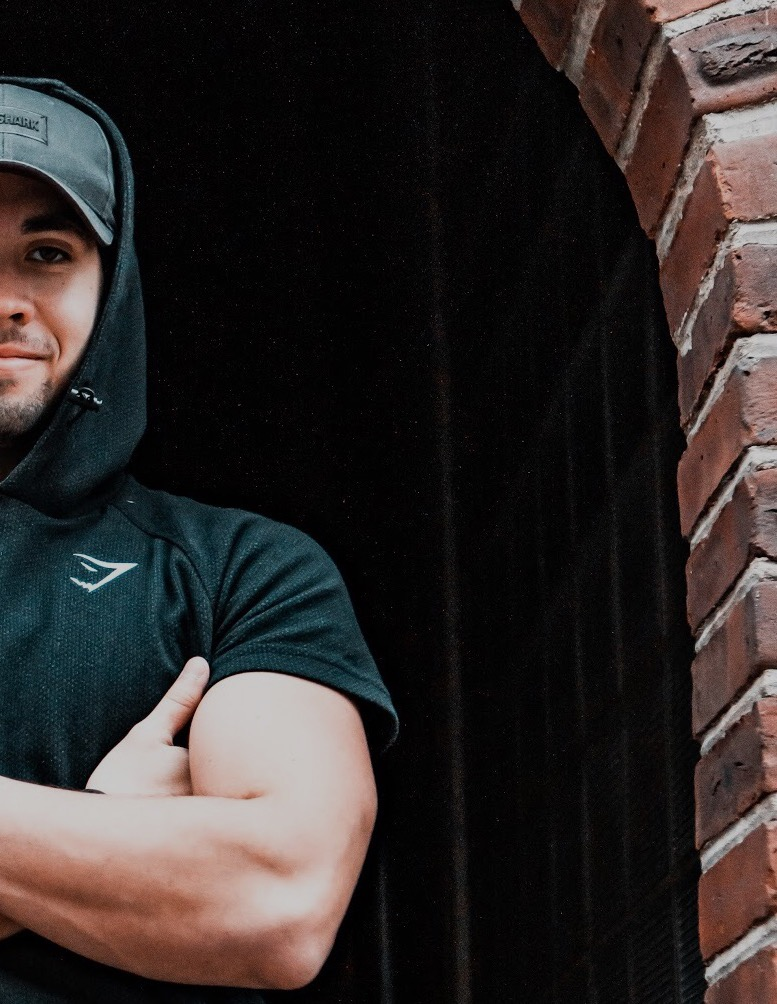
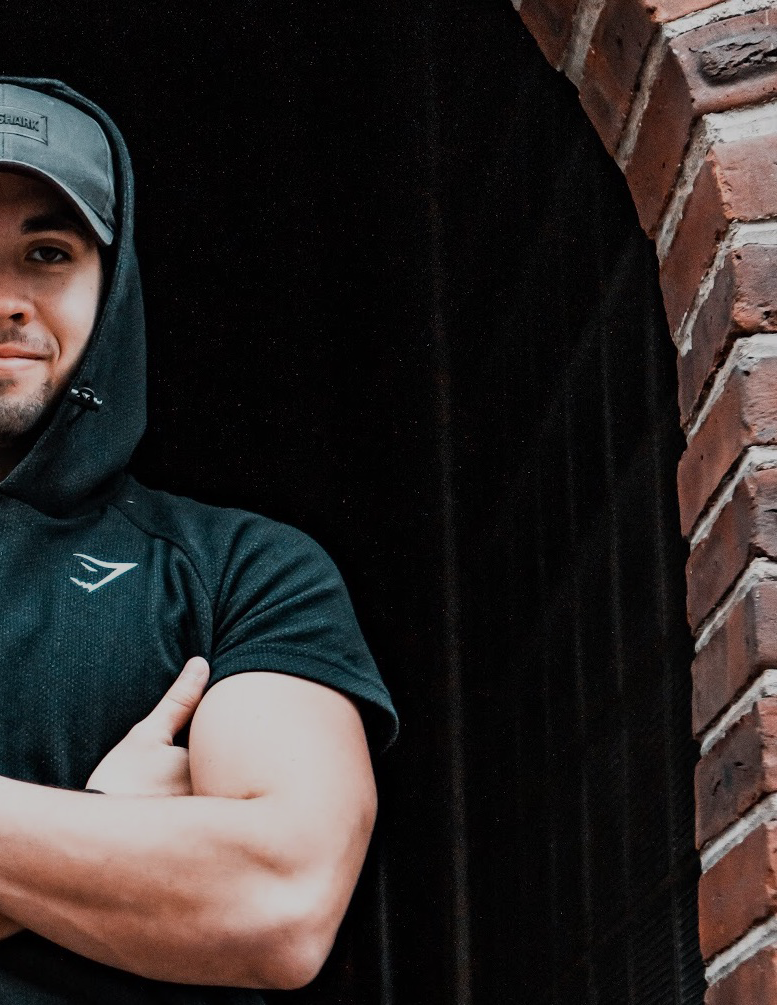
1.9 dynamic landing complete(right image height is off my 1px currently in debug process)

diff --git a/src/CSS/landing.css b/src/CSS/landing.css
@@ -7,7 +7,7 @@
 
 body {
   font-family: "Montserrat";
-  color: #fff;
+  color: black;
   width: 100%;
   height: 100vh;
   overflow-x: hidden;
@@ -19,7 +19,7 @@ ion-icon {
 
 /* NAVBAR =========================== */
 .navbar {
-  position: absolute;
+  position: sticky;
   width: 100vw;
   padding: 0 30px;
   z-index: 2;
@@ -47,8 +47,8 @@ ion-icon {
 /* CONTENT=========================== */
 
 .content {
-  width: 100%;
-  height: 100%;
+  width: 100vw;
+  height: 775px;
   background-color: black; /* <----- idky i cant see this if everything is within content */
 }
 
@@ -64,11 +64,11 @@ ion-icon {
 .split {
   animation: fadeIn 0.5s ease-in-out forwards;
   top: 0;
-  height: fit-content;
-  max-height: 100vh;
+  max-height: 90vh;
   position: absolute;
   transition: 1s all cubic-bezier(0.87, 0.76, 0.33, 0.98);
   overflow: hidden;
+  background-color: black;
   /* Background color goes here for image container */
 }
 

diff --git a/src/Components/socials.jsx b/src/Components/socials.jsx
@@ -1,0 +1,22 @@
+import React, { Component } from "react";
+import "../CSS/socials.css";
+import Github from "../images/github.png";
+import Instagram from "../images/instagram.png";
+import Facebook from "../images/facebook.png";
+import Linkedin from "../images/linkedin.png";
+import Twitter from "../images/twitter.png";
+
+class Socials extends Component {
+  render() {
+    return (
+      <div className="bar">
+        <img src={Github} alt="github" />
+        <img src={Linkedin} alt="linkedin" />
+        <img className="btn ig" src={Instagram} alt="instagram" />
+        <img src={Facebook} alt="facebook" />
+        <img src={Twitter} alt="twitter" />
+      </div>
+    );
+  }
+}
+export default Socials;

diff --git a/src/landing_page.jsx b/src/landing_page.jsx
@@ -4,6 +4,7 @@ import "./App.css";
 import Button from "react-bootstrap/Button";
 import NavBar from "./Components/navbar";
 import Content from "./Components/content";
+import Socials from "./Components/socials";
 
 class LandingPage extends Component {
   render() {
@@ -11,6 +12,7 @@ class LandingPage extends Component {
       <div>
         <NavBar />
         <Content />
+        <Socials />
       </div>
     );
   }

diff --git a/src/CSS/socials.css b/src/CSS/socials.css
@@ -1,0 +1,17 @@
+.bar {
+  background: green;
+  width: 100vw;
+  padding: 10px 0px 10px 0px;
+  height: 10%;
+}
+.btn {
+  background-color: black;
+  padding: 2%;
+  border-radius: 20%;
+}
+
+.btn:hover {
+  border-color: blue;
+  border-radius: 20%;
+  border-width: 4px;
+}
